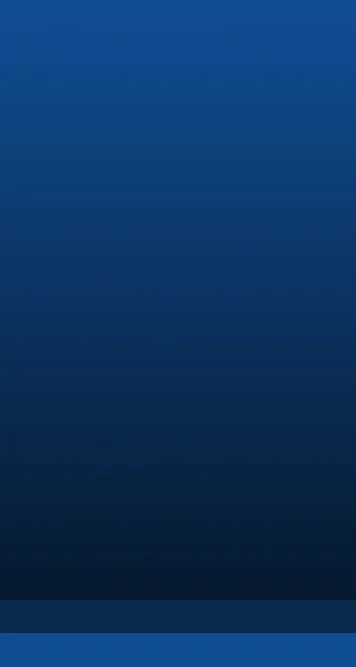
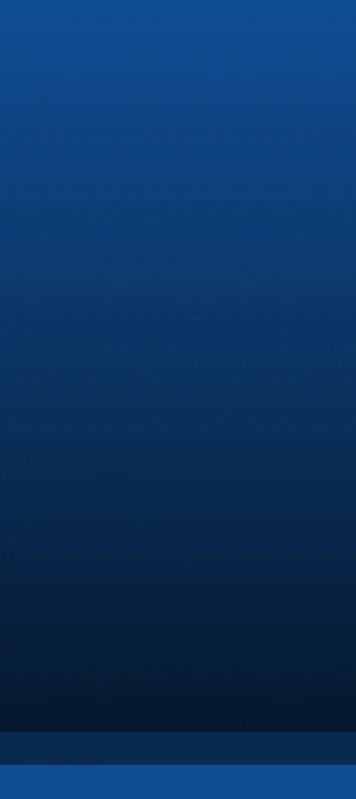
main

Changed region(s): [[0.0, 0.8996, 1.0, 0.9595]]

diff --git a/src/index.html b/src/index.html
@@ -94,7 +94,7 @@
 
     <!-- INVESTIMENTO -->
     <section class="line-container">
-        <div class="mx-5 h-200 lg:h-176 lg:mx-auto flex items-center flex-col">
+        <div class="mx-5 h-192 lg:h-176 lg:mx-auto flex items-center flex-col">
             <div class="my-6 lg:w-192 lg:mx-auto lg:mb-10">
                 <h1 class="text-white text-xl font-semibold font-inter 
                 lg:text-3xl lg:font-bold lg:my-10 text-center">
@@ -129,7 +129,7 @@
         </div>
     </section>
 
-    <!-- UM NOVO OLHAR -->
+    <!-- INVESTIMENTO INTELIGENTE -->
     <section class="bg-olhar">
         <div class="h-200 flex flex-col lg:h-127 lg:max-w-7xl lg:mx-auto lg:items-center lg:flex-row">
             <div class="mx-8 mt-8 lg:mx-auto lg:w-160 lg:mt-0">
@@ -156,9 +156,9 @@
                 <div class="mt-6 w-80 mx-auto lg:w-122 lg:mt-0">
                     <img src="assets/novo-olhar.webp" alt="novo olhar">
                 </div>
-                <div class="mt-9 lg:hidden">
+                <div class="mt-14 lg:hidden">
                     <a href="https://api.whatsapp.com/send?phone=5514997774657&text=Ol%C3%A1!%20Vim%20pela%20p%C3%A1gina%20e%20gostaria%20de%20agendar%20uma%20consultoria%20gratuita%20para%20entender%20como%20seu%20trabalho%20pode%20me%20ajudar" 
-                    class="px-5 text-navy font-bold rounded-3xl py-3 items-center w-72 bg-sky shadow-royal transition duration-300 hover:brightness-125">
+                    class="px-8 text-lg text-navy font-bold rounded-3xl py-3 items-center w-72 bg-sky shadow-royal transition duration-300 hover:brightness-125">
                         QUERO MAXIMIZAR MEU RETORNO
                     </a>
                 </div>
@@ -166,10 +166,10 @@
         </div>
     </section>
 
-    <!-- SERVIÇOS -->
+    <!-- CONTE CONOSCO -->
     <section>
-        <div class="h-288 lg:h-176 lg:max-w-7xl lg:mx-auto flex flex-col justify-center items-center">
-            <h1 class="text-white text-3xl lg:text-2xlarge font-bold font-inter lg:my-10">
+        <div class="h-240 lg:h-176 lg:max-w-7xl lg:mx-auto flex flex-col lg:justify-center items-center">
+            <h1 class="text-white text-3xl lg:text-2xlarge font-bold font-inter my-6 lg:my-10">
                 CONTE CONOSCO PARA
             </h1>
             <ul>
@@ -214,11 +214,11 @@
 
     <!-- COMO FUNCIONA -->
     <section>
-        <div class="h-224 max-w-7xl mx-auto flex justify-center items-center flex-col">
-            <h1 class="text-white text-2xlarge font-bold font-inter my-10">
+        <div class="lg:h-224 lg:max-w-7xl lg:mx-auto flex lg:justify-center items-center flex-col">
+            <h1 class="text-white text-center text-3xl lg:text-2xlarge font-bold font-inter my-6 lg:my-10 lg:text-left">
                 Como funciona nossos serviços?
             </h1>
-            <div class="grid grid-cols-2 grid-rows-2 gap-16">
+            <div class="grid grid-cols-1 grid-rows-4 gap-6 mx-6 lg:gap-16 lg:grid-cols-2 lg:grid-rows-2">
                 <div class="bg-midnight w-113 h-72 rounded-3xl flex pt-5 items-center flex-col px-10">
                     <h1 class="text-justify text-white text-2xl font-bold font-inter mb-6">
                         Imersão Completa
@@ -263,10 +263,11 @@
                     </h1>
                 </div>
             </div>
-            <div class="mt-20">
+            <div class="mt-14 lg:mt-20">
                 <a href="https://api.whatsapp.com/send?phone=5514997774657&text=Ol%C3%A1!%20Vim%20pela%20p%C3%A1gina%20e%20gostaria%20de%20agendar%20uma%20consultoria%20gratuita%20para%20entender%20como%20seu%20trabalho%20pode%20me%20ajudar" 
-                class="px-10 text-white font-medium rounded-3xl py-3 items-center w-72 bg-gradient-to-r 
-                from-royal to-midnight shadow-royal transition duration-300 hover:brightness-125">
+                class="text-white font-medium rounded-3xl items-center w-72 bg-gradient-to-r 
+                from-royal to-midnight shadow-royal transition duration-300 hover:brightness-125 
+                px-5 py-3 text-base lg:px-10 lg:py-3 lg:text-lg">
                     SOLICITE SUA CONSULTORIA GRATUITA
                 </a>
             </div>

diff --git a/src/output.css b/src/output.css
@@ -568,6 +568,11 @@ video {
   margin-right: 1.25rem;
 }
 
+.mx-6 {
+  margin-left: 1.5rem;
+  margin-right: 1.5rem;
+}
+
 .mx-8 {
   margin-left: 2rem;
   margin-right: 2rem;
@@ -576,11 +581,6 @@ video {
 .mx-auto {
   margin-left: auto;
   margin-right: auto;
-}
-
-.my-10 {
-  margin-top: 2.5rem;
-  margin-bottom: 2.5rem;
 }
 
 .my-4 {
@@ -629,8 +629,8 @@ video {
   margin-top: 3rem;
 }
 
-.mt-20 {
-  margin-top: 5rem;
+.mt-14 {
+  margin-top: 3.5rem;
 }
 
 .mt-5 {
@@ -669,16 +669,16 @@ video {
   height: 44rem;
 }
 
+.h-192 {
+  height: 48rem;
+}
+
 .h-200 {
   height: 50rem;
 }
 
-.h-224 {
-  height: 56rem;
-}
-
-.h-288 {
-  height: 72rem;
+.h-240 {
+  height: 60rem;
 }
 
 .h-60 {
@@ -729,12 +729,12 @@ video {
   grid-template-columns: repeat(2, minmax(0, 1fr));
 }
 
-.grid-rows-2 {
-  grid-template-rows: repeat(2, minmax(0, 1fr));
-}
-
 .grid-rows-3 {
   grid-template-rows: repeat(3, minmax(0, 1fr));
+}
+
+.grid-rows-4 {
+  grid-template-rows: repeat(4, minmax(0, 1fr));
 }
 
 .flex-col {
@@ -749,12 +749,12 @@ video {
   justify-content: center;
 }
 
-.gap-16 {
-  gap: 4rem;
-}
-
 .gap-5 {
   gap: 1.25rem;
+}
+
+.gap-6 {
+  gap: 1.5rem;
 }
 
 .gap-8 {
@@ -809,6 +809,11 @@ video {
   padding-bottom: 0.75rem;
 }
 
+.px-8 {
+  padding-left: 2rem;
+  padding-right: 2rem;
+}
+
 .pt-14 {
   padding-top: 3.5rem;
 }
@@ -841,6 +846,10 @@ video {
 .text-3xl {
   font-size: 1.875rem;
   line-height: 2.25rem;
+}
+
+.text-base {
+  font-size: 1rem;
 }
 
 .text-lg {
@@ -955,7 +964,7 @@ body {
 
 .bg-olhar{
   background-image: url(assets/bg-novo-olhar-mb.webp);
-  background-size: cover;
+  background-size: auto;
   background-repeat: repeat;
 }
 
@@ -1077,14 +1086,14 @@ li::before {
     margin-bottom: 2.5rem;
   }
 
-  .lg\:my-8 {
-    margin-top: 2rem;
-    margin-bottom: 2rem;
-  }
-
   .lg\:my-4 {
     margin-top: 1rem;
     margin-bottom: 1rem;
+  }
+
+  .lg\:my-8 {
+    margin-top: 2rem;
+    margin-bottom: 2rem;
   }
 
   .lg\:mb-10 {
@@ -1105,6 +1114,10 @@ li::before {
 
   .lg\:mt-16 {
     margin-top: 4rem;
+  }
+
+  .lg\:mt-20 {
+    margin-top: 5rem;
   }
 
   .lg\:mt-3 {
@@ -1143,12 +1156,24 @@ li::before {
     height: 44rem;
   }
 
+  .lg\:h-224 {
+    height: 56rem;
+  }
+
   .lg\:h-56 {
     height: 14rem;
   }
 
   .lg\:h-72 {
     height: 18rem;
+  }
+
+  .lg\:h-1 {
+    height: 0.25rem;
+  }
+
+  .lg\:h-240 {
+    height: 60rem;
   }
 
   .lg\:w-120 {
@@ -1191,8 +1216,16 @@ li::before {
     grid-template-columns: repeat(3, minmax(0, 1fr));
   }
 
+  .lg\:grid-cols-2 {
+    grid-template-columns: repeat(2, minmax(0, 1fr));
+  }
+
   .lg\:grid-rows-1 {
     grid-template-rows: repeat(1, minmax(0, 1fr));
+  }
+
+  .lg\:grid-rows-2 {
+    grid-template-rows: repeat(2, minmax(0, 1fr));
   }
 
   .lg\:flex-row {
@@ -1201,6 +1234,19 @@ li::before {
 
   .lg\:items-center {
     align-items: center;
+  }
+
+  .lg\:justify-center {
+    justify-content: center;
+  }
+
+  .lg\:gap-16 {
+    gap: 4rem;
+  }
+
+  .lg\:px-10 {
+    padding-left: 2.5rem;
+    padding-right: 2.5rem;
   }
 
   .lg\:px-16 {

diff --git a/src/input.css b/src/input.css
@@ -24,7 +24,7 @@ body {
 
 .bg-olhar{
     background-image: url(assets/bg-novo-olhar-mb.webp);
-    background-size: cover;
+    background-size: auto;
     background-repeat: repeat;
 }
 
